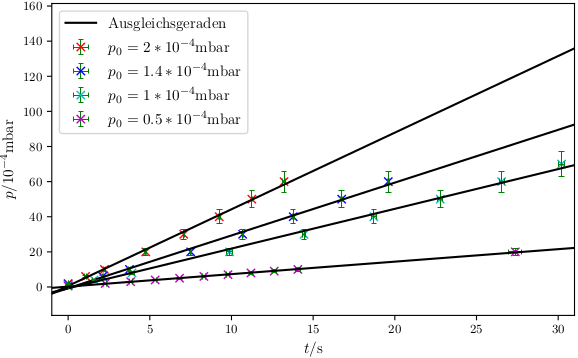
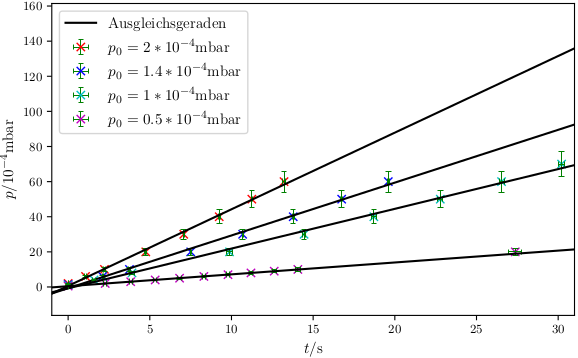
V70 python 2b)

Changed region(s): [[0.4048, 0.676, 0.9965, 0.7682], [0.1557, 0.7682, 0.2491, 0.7989]]

diff --git a/FP-V70/scripts/mainscriptw.py b/FP-V70/scripts/mainscriptw.py
@@ -70,9 +70,13 @@ tTL1=unp.uarray(tTL1,tTL1_f)
 
 paramsLinearTL1, errorsLinearTL1, sigma_y = linregress(noms(tTL1), noms(pTL1))
 steigungTL1 = unp.uarray(paramsLinearTL1[0],errorsLinearTL1[0])
+paramsLinearTL1_2, errorsLinearTL1_2, sigma_y = linregress(noms(tTL1)[3:], noms(pTL1)[3:])
+steigungTL1_2 = unp.uarray(paramsLinearTL1_2[0],errorsLinearTL1_2[0])
 
 STL1 = VTL/p0TL1*steigungTL1
 print('STL1 =', STL1)
+STL1_2 = VTL/p0TL1*steigungTL1_2
+print('STL1_2 =', STL1_2)
 
 #TL2
 pTL2,tTL2_1,tTL2_2,tTL2_3 = np.genfromtxt(r'scripts/dataTL2.txt',unpack=True)
@@ -92,9 +96,13 @@ tTL2=unp.uarray(tTL2,tTL2_f)
 
 paramsLinearTL2, errorsLinearTL2, sigma_y = linregress(noms(tTL2), noms(pTL2))
 steigungTL2 = unp.uarray(paramsLinearTL2[0],errorsLinearTL2[0])
+paramsLinearTL2_2, errorsLinearTL2_2, sigma_y = linregress(noms(tTL2)[3:], noms(pTL2)[3:])
+steigungTL2_2 = unp.uarray(paramsLinearTL2_2[0],errorsLinearTL2_2[0])
 
 STL2 = VTL/p0TL2*steigungTL2
 print('STL2 =', STL2)
+STL2_2 = VTL/p0TL2*steigungTL2_2
+print('STL2_2 =', STL2_2)
 
 #TL3
 pTL3,tTL3_1,tTL3_2,tTL3_3 = np.genfromtxt(r'scripts/dataTL3.txt',unpack=True)
@@ -114,9 +122,13 @@ tTL3=unp.uarray(tTL3,tTL3_f)
 
 paramsLinearTL3, errorsLinearTL3, sigma_y = linregress(noms(tTL3), noms(pTL3))
 steigungTL3 = unp.uarray(paramsLinearTL3[0],errorsLinearTL3[0])
+paramsLinearTL3_2, errorsLinearTL3_2, sigma_y = linregress(noms(tTL3)[3:], noms(pTL3)[3:])
+steigungTL3_2 = unp.uarray(paramsLinearTL3_2[0],errorsLinearTL3_2[0])
 
 STL3 = VTL/p0TL3*steigungTL3
 print('STL3 = ', STL3)
+STL3_2 = VTL/p0TL3*steigungTL3_2
+print('STL3_2 = ', STL3_2)
 
 #TL4
 pTL4,tTL4_1,tTL4_2,tTL4_3 = np.genfromtxt(r'scripts/dataTL4.txt',unpack=True)
@@ -134,7 +146,7 @@ for i in range (0,len(tTL4_1)):
 	
 tTL4=unp.uarray(tTL4,tTL4_f)
 
-paramsLinearTL4, errorsLinearTL4, sigma_y = linregress(noms(tTL4), noms(pTL4))
+paramsLinearTL4, errorsLinearTL4, sigma_y = linregress(noms(tTL4)[:10], noms(pTL4)[:10])
 steigungTL4 = unp.uarray(paramsLinearTL4[0],errorsLinearTL4[0])
 
 STL4 = VTL/p0TL4*steigungTL4
@@ -148,7 +160,8 @@ plt.clf()
 x_plot = np.linspace(-2,15)
 
 plt.errorbar(noms(tTL1), noms(pTL1), xerr=stds(tTL1), yerr=stds(pTL1), fmt='rx', markersize=6, elinewidth=0.5, capsize=2, capthick=0.5, ecolor='g',barsabove=True ,label='Messwerte')
-plt.plot(x_plot,x_plot*paramsLinearTL1[0]+paramsLinearTL1[1],'b-',label='Ausgleichsgerade')
+plt.plot(x_plot,x_plot*paramsLinearTL1[0]+paramsLinearTL1[1],'b-',label='Ausgleichsgerade1')
+plt.plot(x_plot,x_plot*paramsLinearTL1_2[0]+paramsLinearTL1_2[1],'c-',label='Ausgleichsgerade2')
 
 plt.xlabel(r'$t/\si{\second}$')
 plt.ylabel(r'$p/10^{-4}\si{\milli\bar}$')
@@ -166,6 +179,7 @@ x_plot = np.linspace(-2,25)
 
 plt.errorbar(noms(tTL2), noms(pTL2), xerr=stds(tTL2), yerr=stds(pTL2), fmt='rx', markersize=6, elinewidth=0.5, capsize=2, capthick=0.5, ecolor='g',barsabove=True ,label='Messwerte')
 plt.plot(x_plot,x_plot*paramsLinearTL2[0]+paramsLinearTL2[1],'b-',label='Ausgleichsgerade')
+plt.plot(x_plot,x_plot*paramsLinearTL2_2[0]+paramsLinearTL2_2[1],'c-',label='Ausgleichsgerade2')
 
 plt.xlabel(r'$t/\si{\second}$')
 plt.ylabel(r'$p/10^{-4}\si{\milli\bar}$')
@@ -183,6 +197,7 @@ x_plot = np.linspace(-2,35)
 
 plt.errorbar(noms(tTL3), noms(pTL3), xerr=stds(tTL3), yerr=stds(pTL3), fmt='rx', markersize=6, elinewidth=0.5, capsize=2, capthick=0.5, ecolor='g',barsabove=True ,label='Messwerte')
 plt.plot(x_plot,x_plot*paramsLinearTL3[0]+paramsLinearTL3[1],'b-',label='Ausgleichsgerade')
+plt.plot(x_plot,x_plot*paramsLinearTL3_2[0]+paramsLinearTL3_2[1],'c-',label='Ausgleichsgerade2')
 
 plt.xlabel(r'$t/\si{\second}$')
 plt.ylabel(r'$p/10^{-4}\si{\milli\bar}$')
@@ -198,7 +213,8 @@ plt.cla()
 plt.clf()
 x_plot = np.linspace(-2,30)
 
-plt.errorbar(noms(tTL4), noms(pTL4), xerr=stds(tTL4), yerr=stds(pTL4), fmt='rx', markersize=6, elinewidth=0.5, capsize=2, capthick=0.5, ecolor='g',barsabove=True ,label='Messwerte')
+plt.errorbar(noms(tTL4)[:10], noms(pTL4)[:10], xerr=stds(tTL4)[:10], yerr=stds(pTL4)[:10], fmt='rx', markersize=6, elinewidth=0.5, capsize=2, capthick=0.5, ecolor='g',barsabove=True ,label='Messwerte')
+plt.errorbar(noms(tTL4)[10], noms(pTL4)[10], xerr=stds(tTL4)[10], yerr=stds(pTL4)[10], color='grey', marker='x', markersize=6, elinewidth=0.5, capsize=2, capthick=0.5, ecolor='g',barsabove=True ,label='Ungenutzt')
 plt.plot(x_plot,x_plot*paramsLinearTL4[0]+paramsLinearTL4[1],'b-',label='Ausgleichsgerade')
 
 plt.xlabel(r'$t/\si{\second}$')
@@ -278,7 +294,7 @@ for i in range (0,len(tDL2_1)):
 	
 tDL2=unp.uarray(tDL2,tDL2_f)
 
-paramsLinearDL2, errorsLinearDL2, sigma_y = linregress(noms(tDL2), noms(pDL2))
+paramsLinearDL2, errorsLinearDL2, sigma_y = linregress(noms(tDL2)[:5], noms(pDL2)[:5])
 steigungDL2 = unp.uarray(paramsLinearDL2[0],errorsLinearDL2[0])
 
 SDL2 = VDL/p0DL2*steigungDL2
@@ -304,7 +320,7 @@ paramsLinearDL3, errorsLinearDL3, sigma_y = linregress(noms(tDL3), noms(pDL3))
 steigungDL3 = unp.uarray(paramsLinearDL3[0],errorsLinearDL3[0])
 
 SDL3 = VDL/p0DL3*steigungDL3
-print('SDL1 = ', SDL1)
+print('SDL3 = ', SDL3)
 
 #DL4
 pDL4,tDL4_1,tDL4_2,tDL4_3 = np.genfromtxt(r'scripts/dataDL4.txt',unpack=True)
@@ -352,7 +368,8 @@ plt.cla()
 plt.clf()
 x_plot = np.linspace(-2,80)
 
-plt.errorbar(noms(tDL2), noms(pDL2), xerr=stds(tDL2), yerr=stds(pDL2), fmt='rx', markersize=6, elinewidth=0.5, capsize=2, capthick=0.5, ecolor='g',barsabove=True ,label='Messwerte')
+plt.errorbar(noms(tDL2)[:5], noms(pDL2)[:5], xerr=stds(tDL2)[:5], yerr=stds(pDL2)[:5], fmt='rx', markersize=6, elinewidth=0.5, capsize=2, capthick=0.5, ecolor='g',barsabove=True ,label='Messwerte')
+plt.errorbar(noms(tDL2)[5], noms(pDL2)[5], xerr=stds(tDL2)[5], yerr=stds(pDL2)[5], color='grey', marker='x', markersize=6, elinewidth=0.5, capsize=2, capthick=0.5, ecolor='g',barsabove=True ,label='Ungenutzt')
 plt.plot(x_plot,x_plot*paramsLinearDL2[0]+paramsLinearDL2[1],'b-',label='Ausgleichsgerade')
 
 plt.xlabel(r'$t/\si{\second}$')
@@ -407,7 +424,8 @@ x_plot = np.linspace(-5,185)
 plt.errorbar(noms(tDL1), noms(pDL1), xerr=stds(tDL1), yerr=stds(pDL1), fmt='rx', markersize=6, elinewidth=0.5, capsize=2, capthick=0.5, ecolor='g',barsabove=True ,label=r'$p_0=1 \si{\milli\bar}$')
 plt.plot(x_plot,x_plot*paramsLinearDL1[0]+paramsLinearDL1[1],'k-',label='Ausgleichsgeraden')
 #DL2
-plt.errorbar(noms(tDL2), noms(pDL2), xerr=stds(tDL2), yerr=stds(pDL2), fmt='bx', markersize=6, elinewidth=0.5, capsize=2, capthick=0.5, ecolor='g',barsabove=True ,label=r'$p_0=0.8 \si{\milli\bar}$')
+plt.errorbar(noms(tDL2)[:5], noms(pDL2)[:5], xerr=stds(tDL2)[:5], yerr=stds(pDL2)[:5], fmt='bx', markersize=6, elinewidth=0.5, capsize=2, capthick=0.5, ecolor='g',barsabove=True ,label=r'$p_0=0.8 \si{\milli\bar}$')
+plt.errorbar(noms(tDL2)[5], noms(pDL2)[5], xerr=stds(tDL2)[5], yerr=stds(pDL2)[5], color='grey', marker='x', markersize=6, elinewidth=0.5, capsize=2, capthick=0.5, ecolor='g',barsabove=True ,label='Ungenutzt')
 plt.plot(x_plot,x_plot*paramsLinearDL2[0]+paramsLinearDL2[1],'k-')
 #DL3
 plt.errorbar(noms(tDL3), noms(pDL3), xerr=stds(tDL3), yerr=stds(pDL3), fmt='cx', markersize=6, elinewidth=0.5, capsize=2, capthick=0.5, ecolor='g',barsabove=True ,label=r'$p_0=0.4 \si{\milli\bar}$')
@@ -455,7 +473,7 @@ pTS_log = unp.log(pTS_h)
 
 paramsLinearTS1, errorsLinearTS1, sigma_y = linregress(noms(tTS)[0:4], noms(pTS_log)[0:4])
 steigungTS1 = unp.uarray(paramsLinearTS1[0],errorsLinearTS1[0])
-paramsLinearTS2, errorsLinearTS2, sigma_y = linregress(noms(tTS)[3:6], noms(pTS_log)[3:6])
+paramsLinearTS2, errorsLinearTS2, sigma_y = linregress(noms(tTS)[4:8], noms(pTS_log)[4:8])
 steigungTS2 = unp.uarray(paramsLinearTS2[0],errorsLinearTS2[0])
 paramsLinearTS3, errorsLinearTS3, sigma_y = linregress(noms(tTS)[6:10], noms(pTS_log)[6:10])
 steigungTS3 = unp.uarray(paramsLinearTS3[0],errorsLinearTS3[0])
@@ -574,28 +592,33 @@ print('DS done')
 
 
 #Ges
+
 #GesT
 plt.cla()
 plt.clf()
 
-plt.errorbar([noms(pTL1)[0]*10,noms(pTL1)[-1]*10], [noms(STL1),noms(STL1)], xerr=[stds(pTL1)[0]*10,stds(pTL1)[-1]*10], yerr=[stds(STL1),stds(STL1)], fmt='b-', markersize=6, elinewidth=0.5, capsize=2, capthick=0.5, ecolor='g',barsabove=True ,label='TL1')
-plt.errorbar([noms(pTL2)[0]*10,noms(pTL2)[-1]*10], [noms(STL2),noms(STL2)], xerr=[stds(pTL2)[0]*10,stds(pTL2)[-1]*10], yerr=[stds(STL2),stds(STL2)], fmt='c-', markersize=6, elinewidth=0.5, capsize=2, capthick=0.5, ecolor='g',barsabove=True ,label='TL2')
-plt.errorbar([noms(pTL3)[0]*10,noms(pTL3)[-1]*10], [noms(STL3),noms(STL3)], xerr=[stds(pTL3)[0]*10,stds(pTL3)[-1]*10], yerr=[stds(STL3),stds(STL3)], fmt='m-', markersize=6, elinewidth=0.5, capsize=2, capthick=0.5, ecolor='g',barsabove=True ,label='TL3')
-plt.errorbar([noms(pTL4)[0]*10,noms(pTL4)[-1]*10], [noms(STL4),noms(STL4)], xerr=[stds(pTL4)[0]*10,stds(pTL4)[-1]*10], yerr=[stds(STL1),stds(STL1)], fmt='r-', markersize=6, elinewidth=0.5, capsize=2, capthick=0.5, ecolor='g',barsabove=True ,label='TL4')
+#plt.errorbar([noms(pTL1)[0]*10,noms(pTL1)[-1]*10], [noms(STL1),noms(STL1)], xerr=[stds(pTL1)[0]*10,stds(pTL1)[-1]*10], yerr=[stds(STL1),stds(STL1)], fmt='b-', markersize=6, elinewidth=0.5, capsize=2, capthick=0.5, ecolor='g',barsabove=True ,label='TL1')
+#plt.errorbar([noms(pTL2)[0]*10,noms(pTL2)[-1]*10], [noms(STL2),noms(STL2)], xerr=[stds(pTL2)[0]*10,stds(pTL2)[-1]*10], yerr=[stds(STL2),stds(STL2)], fmt='c-', markersize=6, elinewidth=0.5, capsize=2, capthick=0.5, ecolor='g',barsabove=True ,label='TL2')
+#plt.errorbar([noms(pTL3)[0]*10,noms(pTL3)[-1]*10], [noms(STL3),noms(STL3)], xerr=[stds(pTL3)[0]*10,stds(pTL3)[-1]*10], yerr=[stds(STL3),stds(STL3)], fmt='m-', markersize=6, elinewidth=0.5, capsize=2, capthick=0.5, ecolor='g',barsabove=True ,label='TL3')
+#plt.errorbar([noms(pTL4)[0]*10,noms(pTL4)[-1]*10], [noms(STL4),noms(STL4)], xerr=[stds(pTL4)[0]*10,stds(pTL4)[-1]*10], yerr=[stds(STL1),stds(STL1)], fmt='r-', markersize=6, elinewidth=0.5, capsize=2, capthick=0.5, ecolor='g',barsabove=True ,label='TL4')
 plt.errorbar([noms(pTS)[0],noms(pTS)[3]], [noms(STS1),noms(STS1)], xerr=[stds(pTS)[0],stds(pTS)[3]], yerr=[stds(STS1),stds(STS1)], fmt='b--', markersize=6, elinewidth=0.5, capsize=2, capthick=0.5, ecolor='g',barsabove=True ,label='TS1')
-plt.errorbar([noms(pTS)[3],noms(pTS)[5]], [noms(STS2),noms(STS2)], xerr=[stds(pTS)[3],stds(pTS)[5]], yerr=[stds(STS2),stds(STS2)], fmt='c--', markersize=6, elinewidth=0.5, capsize=2, capthick=0.5, ecolor='g',barsabove=True ,label='TS2')
+plt.errorbar([noms(pTS)[4],noms(pTS)[7]], [noms(STS2),noms(STS2)], xerr=[stds(pTS)[4],stds(pTS)[7]], yerr=[stds(STS2),stds(STS2)], fmt='c--', markersize=6, elinewidth=0.5, capsize=2, capthick=0.5, ecolor='g',barsabove=True ,label='TS2')
 plt.errorbar([noms(pTS)[6],noms(pTS)[9]], [noms(STS3),noms(STS3)], xerr=[stds(pTS)[6],stds(pTS)[9]], yerr=[stds(STS3),stds(STS3)], fmt='m--', markersize=6, elinewidth=0.5, capsize=2, capthick=0.5, ecolor='g',barsabove=True ,label='TS3')
 
-#plt.errorbar(noms(pTL1)[0]*10, noms(STL1), xerr=stds(pTL1)[0]*10, yerr=stds(STL1), fmt='bx', markersize=6, elinewidth=0.5, capsize=2, capthick=0.5, ecolor='g',barsabove=True ,label='TL1')
-#plt.errorbar(noms(pTL2)[0]*10, noms(STL2), xerr=stds(pTL2)[0]*10, yerr=stds(STL2), fmt='cx', markersize=6, elinewidth=0.5, capsize=2, capthick=0.5, ecolor='g',barsabove=True ,label='TL2')
-#plt.errorbar(noms(pTL3)[0]*10, noms(STL3), xerr=stds(pTL3)[0]*10, yerr=stds(STL3), fmt='mx', markersize=6, elinewidth=0.5, capsize=2, capthick=0.5, ecolor='g',barsabove=True ,label='TL3')
-#plt.errorbar(noms(pTL4)[0]*10, noms(STL4), xerr=stds(pTL4)[0]*10, yerr=stds(STL1), fmt='rx', markersize=6, elinewidth=0.5, capsize=2, capthick=0.5, ecolor='g',barsabove=True ,label='TL4')
+plt.errorbar(noms(pTL1)[0]*10, noms(STL1), xerr=stds(pTL1)[0]*10, yerr=stds(STL1), fmt='bx', markersize=6, elinewidth=0.5, capsize=2, capthick=0.5, ecolor='g',barsabove=True ,label='TL1')
+plt.errorbar(noms(pTL1)[0]*10, noms(STL1_2), xerr=stds(pTL1)[0]*10, yerr=stds(STL1_2), fmt='bo', markersize=6, elinewidth=0.5, capsize=2, capthick=0.5, ecolor='g',barsabove=True ,label='TL1_2')
+plt.errorbar(noms(pTL2)[0]*10, noms(STL2), xerr=stds(pTL2)[0]*10, yerr=stds(STL2), fmt='cx', markersize=6, elinewidth=0.5, capsize=2, capthick=0.5, ecolor='g',barsabove=True ,label='TL2')
+plt.errorbar(noms(pTL2)[0]*10, noms(STL2_2), xerr=stds(pTL2)[0]*10, yerr=stds(STL2_2), fmt='co', markersize=6, elinewidth=0.5, capsize=2, capthick=0.5, ecolor='g',barsabove=True ,label='TL2_2')
+plt.errorbar(noms(pTL3)[0]*10, noms(STL3), xerr=stds(pTL3)[0]*10, yerr=stds(STL3), fmt='mx', markersize=6, elinewidth=0.5, capsize=2, capthick=0.5, ecolor='g',barsabove=True ,label='TL3')
+plt.errorbar(noms(pTL3)[0]*10, noms(STL3_2), xerr=stds(pTL3)[0]*10, yerr=stds(STL3_2), fmt='mo', markersize=6, elinewidth=0.5, capsize=2, capthick=0.5, ecolor='g',barsabove=True ,label='TL3_2')
+plt.errorbar(noms(pTL4)[0]*10, noms(STL4), xerr=stds(pTL4)[0]*10, yerr=stds(STL1), fmt='rx', markersize=6, elinewidth=0.5, capsize=2, capthick=0.5, ecolor='g',barsabove=True ,label='TL4')
 #plt.errorbar(noms(pTS)[0], noms(STS1), xerr=stds(pTS)[0], yerr=stds(STS1), fmt='ro', markersize=6, elinewidth=0.5, capsize=2, capthick=0.5, ecolor='g',barsabove=True ,label='TS1')
 #plt.errorbar(noms(pTS)[3], noms(STS2), xerr=stds(pTS)[3], yerr=stds(STS2), fmt='co', markersize=6, elinewidth=0.5, capsize=2, capthick=0.5, ecolor='g',barsabove=True ,label='TS2')
 #plt.errorbar(noms(pTS)[6], noms(STS3), xerr=stds(pTS)[6], yerr=stds(STS3), fmt='mo', markersize=6, elinewidth=0.5, capsize=2, capthick=0.5, ecolor='g',barsabove=True ,label='TS3')
 
-plt.xlabel(r'$p_0/10^{-5}\si{\milli\bar}$')
+plt.xlabel(r'$p/10^{-5}\si{\milli\bar}$')
 plt.ylabel(r'$S/\si{\litre\per\second}$')
+plt.xlim(-5,50)
 plt.legend(loc='best')
 plt.tight_layout(pad=0, h_pad=1.08, w_pad=1.08)
 plt.savefig('content/images/GesT.png')
@@ -605,23 +628,24 @@ print('GesT done')
 plt.cla()
 plt.clf()
 
-plt.errorbar([noms(pDL1)[0],noms(pDL1)[-1]], [noms(SDL1),noms(SDL1)], xerr=[stds(pDL1)[0],stds(pDL1)[-1]], yerr=[stds(SDL1),stds(SDL1)], fmt='b-', markersize=6, elinewidth=0.5, capsize=2, capthick=0.5, ecolor='g',barsabove=True ,label='DL1')
-plt.errorbar([noms(pDL2)[0],noms(pDL2)[-1]], [noms(SDL2),noms(SDL2)], xerr=[stds(pDL2)[0],stds(pDL2)[-1]], yerr=[stds(SDL2),stds(SDL2)], fmt='c-', markersize=6, elinewidth=0.5, capsize=2, capthick=0.5, ecolor='g',barsabove=True ,label='DL2')
-plt.errorbar([noms(pDL3)[0],noms(pDL3)[-1]], [noms(SDL3),noms(SDL3)], xerr=[stds(pDL3)[0],stds(pDL3)[-1]], yerr=[stds(SDL3),stds(SDL3)], fmt='m-', markersize=6, elinewidth=0.5, capsize=2, capthick=0.5, ecolor='g',barsabove=True ,label='DL3')
-plt.errorbar([noms(pDL4)[0],noms(pDL4)[-1]], [noms(SDL4),noms(SDL4)], xerr=[stds(pDL4)[0],stds(pDL4)[-1]], yerr=[stds(SDL1),stds(SDL1)], fmt='r-', markersize=6, elinewidth=0.5, capsize=2, capthick=0.5, ecolor='g',barsabove=True ,label='DL4')
-plt.errorbar([noms(pDS)[0],noms(pDS)[10]], [noms(SDS1),noms(SDS1)], xerr=[stds(pDS)[0],stds(pDS)[10]], yerr=[stds(SDS1),stds(SDS1)], fmt='b--', markersize=6, elinewidth=0.5, capsize=2, capthick=0.5, ecolor='g',barsabove=True ,label='DS1')
+#plt.errorbar([noms(pDL1)[0],noms(pDL1)[-1]], [noms(SDL1),noms(SDL1)], xerr=[stds(pDL1)[0],stds(pDL1)[-1]], yerr=[stds(SDL1),stds(SDL1)], fmt='b-', markersize=6, elinewidth=0.5, capsize=2, capthick=0.5, ecolor='g',barsabove=True ,label='DL1')
+#plt.errorbar([noms(pDL2)[0],noms(pDL2)[-1]], [noms(SDL2),noms(SDL2)], xerr=[stds(pDL2)[0],stds(pDL2)[-1]], yerr=[stds(SDL2),stds(SDL2)], fmt='c-', markersize=6, elinewidth=0.5, capsize=2, capthick=0.5, ecolor='g',barsabove=True ,label='DL2')
+#plt.errorbar([noms(pDL3)[0],noms(pDL3)[-1]], [noms(SDL3),noms(SDL3)], xerr=[stds(pDL3)[0],stds(pDL3)[-1]], yerr=[stds(SDL3),stds(SDL3)], fmt='m-', markersize=6, elinewidth=0.5, capsize=2, capthick=0.5, ecolor='g',barsabove=True ,label='DL3')
+#plt.errorbar([noms(pDL4)[0],noms(pDL4)[-1]], [noms(SDL4),noms(SDL4)], xerr=[stds(pDL4)[0],stds(pDL4)[-1]], yerr=[stds(SDL1),stds(SDL1)], fmt='r-', markersize=6, elinewidth=0.5, capsize=2, capthick=0.5, ecolor='g',barsabove=True ,label='DL4')
+plt.errorbar([noms(pDS)[5],noms(pDS)[10]], [noms(SDS1),noms(SDS1)], xerr=[stds(pDS)[5],stds(pDS)[10]], yerr=[stds(SDS1),stds(SDS1)], fmt='b--', markersize=6, elinewidth=0.5, capsize=2, capthick=0.5, ecolor='g',barsabove=True ,label='DS1')
 plt.errorbar([noms(pDS)[11],noms(pDS)[16]], [noms(SDS2),noms(SDS2)], xerr=[stds(pDS)[11],stds(pDS)[16]], yerr=[stds(SDS2),stds(SDS2)], fmt='c--', markersize=6, elinewidth=0.5, capsize=2, capthick=0.5, ecolor='g',barsabove=True ,label='DS2')
 
-#plt.errorbar(noms(pTL1)[0]*10, noms(STL1), xerr=stds(pTL1)[0]*10, yerr=stds(STL1), fmt='bx', markersize=6, elinewidth=0.5, capsize=2, capthick=0.5, ecolor='g',barsabove=True ,label='TL1')
-#plt.errorbar(noms(pTL2)[0]*10, noms(STL2), xerr=stds(pTL2)[0]*10, yerr=stds(STL2), fmt='cx', markersize=6, elinewidth=0.5, capsize=2, capthick=0.5, ecolor='g',barsabove=True ,label='TL2')
-#plt.errorbar(noms(pTL3)[0]*10, noms(STL3), xerr=stds(pTL3)[0]*10, yerr=stds(STL3), fmt='mx', markersize=6, elinewidth=0.5, capsize=2, capthick=0.5, ecolor='g',barsabove=True ,label='TL3')
-#plt.errorbar(noms(pTL4)[0]*10, noms(STL4), xerr=stds(pTL4)[0]*10, yerr=stds(STL1), fmt='rx', markersize=6, elinewidth=0.5, capsize=2, capthick=0.5, ecolor='g',barsabove=True ,label='TL4')
+plt.errorbar(noms(pDL1)[0], noms(SDL1), xerr=stds(pDL1)[0], yerr=stds(SDL1), fmt='bx', markersize=6, elinewidth=0.5, capsize=2, capthick=0.5, ecolor='g',barsabove=True ,label='DL1')
+plt.errorbar(noms(pDL2)[0], noms(SDL2), xerr=stds(pDL2)[0], yerr=stds(SDL2), fmt='cx', markersize=6, elinewidth=0.5, capsize=2, capthick=0.5, ecolor='g',barsabove=True ,label='DL2')
+plt.errorbar(noms(pDL3)[0], noms(SDL3), xerr=stds(pDL3)[0], yerr=stds(SDL3), fmt='mx', markersize=6, elinewidth=0.5, capsize=2, capthick=0.5, ecolor='g',barsabove=True ,label='DL3')
+plt.errorbar(noms(pDL4)[0], noms(SDL4), xerr=stds(pDL4)[0], yerr=stds(SDL4), fmt='rx', markersize=6, elinewidth=0.5, capsize=2, capthick=0.5, ecolor='g',barsabove=True ,label='DL4')
 #plt.errorbar(noms(pTS)[0], noms(STS1), xerr=stds(pTS)[0], yerr=stds(STS1), fmt='ro', markersize=6, elinewidth=0.5, capsize=2, capthick=0.5, ecolor='g',barsabove=True ,label='TS1')
 #plt.errorbar(noms(pTS)[3], noms(STS2), xerr=stds(pTS)[3], yerr=stds(STS2), fmt='co', markersize=6, elinewidth=0.5, capsize=2, capthick=0.5, ecolor='g',barsabove=True ,label='TS2')
 #plt.errorbar(noms(pTS)[6], noms(STS3), xerr=stds(pTS)[6], yerr=stds(STS3), fmt='mo', markersize=6, elinewidth=0.5, capsize=2, capthick=0.5, ecolor='g',barsabove=True ,label='TS3')
 
-plt.xlabel(r'$p_0/\si{\milli\bar}$')
+plt.xlabel(r'$p/\si{\milli\bar}$')
 plt.ylabel(r'$S/\si{\litre\per\second}$')
+plt.xlim(-0.5,3)
 plt.legend(loc='best')
 plt.tight_layout(pad=0, h_pad=1.08, w_pad=1.08)
 plt.savefig('content/images/GesD.png')
